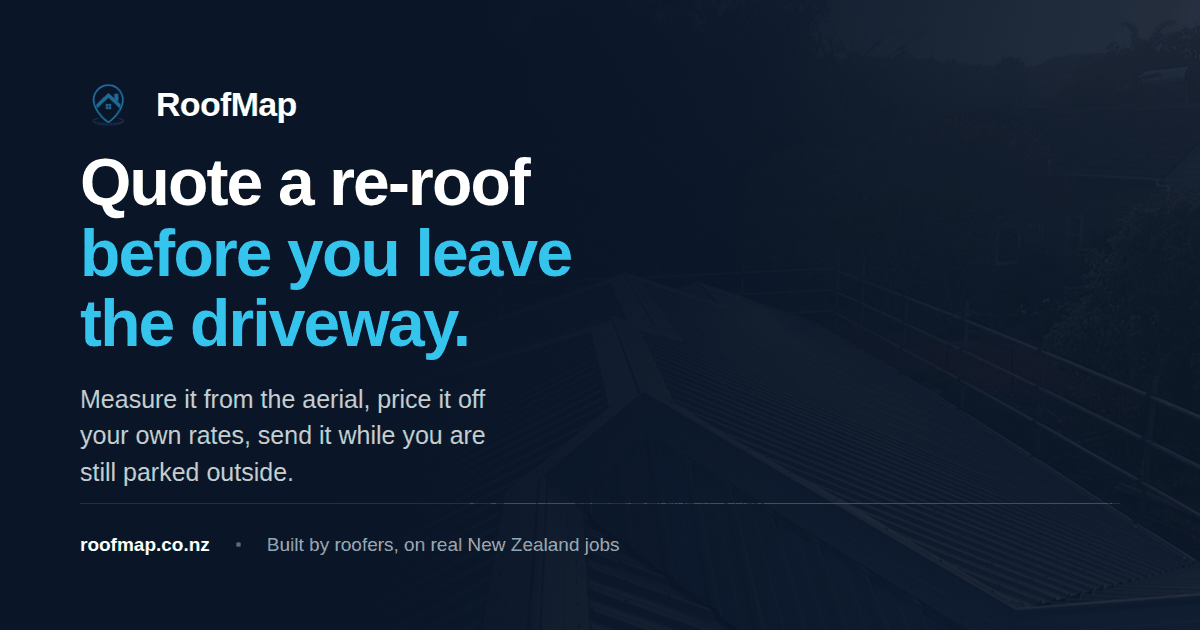
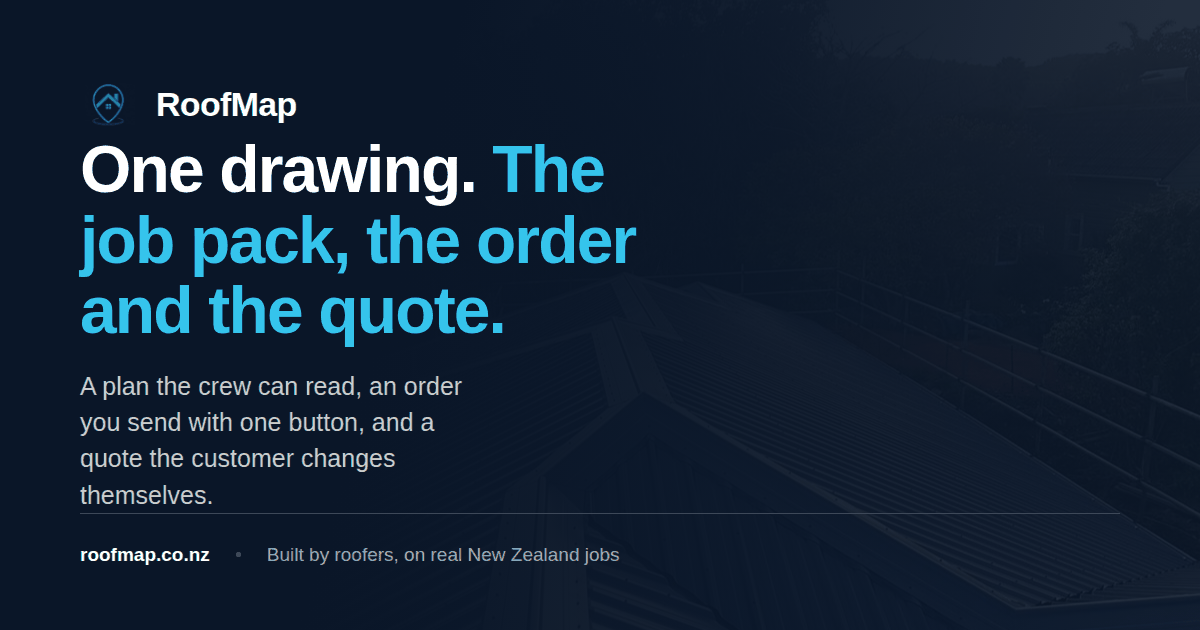
Sell the three things it actually fixes
The site sold speed — "quote a re-roof before you leave the driveway."
That is not why a roofing business buys this. Three things are:

  the crew gets a biro sketch they cannot read
  the order is counted by hand and emailed, and the mistakes cost money
  the customer rings up to change the gutter, the grade, the gauge

So the hero names all three and the four steps run in the order the work
actually happens: draw to scale, the job pack writes itself, the order
goes with one button, the customer changes their own options. "Price it"
comes out of the steps — pricing is a property of the quote, and "your
prices, your margin" already carries it in the grid below.

The tagline was also RENDERED INTO the social card, which is the picture
every link preview shows on Facebook, LinkedIn, Slack and a text message.
Changing the hero without rebuilding that leaves the old pitch on every
shared link, so tools/og-card.html and the PNG go with it.

og:image:alt had drifted into three different wordings across 22 pages —
two describing a tagline the card no longer carries, and one on the home
page describing a roof plan the card has never contained. There is one
image, so there is one true description of it. seo.mjs now enforces that;
it would have caught the home page disagreeing with the other sixteen.

landing.mjs gains the guard that matters more than the headline check:
each of the three pains has to be NAMED on the page. Copy drifts back
[…]

diff --git a/floodroofing/frontend/landing.html b/floodroofing/frontend/landing.html
@@ -4,7 +4,7 @@
 <meta charset="utf-8">
 <meta name="viewport" content="width=device-width, initial-scale=1">
 <title>RoofMap — roof estimating software for New Zealand roofers</title>
-<meta name="description" content="Measure a roof from an aerial photo, price it off your own rates, and send a quote the customer accepts online. Built by a working NZ roofing company.">
+<meta name="description" content="One scaled drawing becomes a job pack the crew can read, a merchant order sent with one button, and a live quote your customer changes themselves.">
 <link rel="canonical" href="https://roofmap.co.nz/">
 <meta name="robots" content="index,follow,max-image-preview:large,max-snippet:-1">
 <meta name="theme-color" content="#0a1628">
@@ -21,7 +21,7 @@
 <meta property="og:image" content="https://roofmap.co.nz/brand/og-card.png">
 <meta property="og:image:width" content="1200">
 <meta property="og:image:height" content="630">
-<meta property="og:image:alt" content="RoofMap — a measured roof plan over an aerial photo, with every ridge, hip and sheet run labelled">
+<meta property="og:image:alt" content="RoofMap — one drawing becomes the job pack, the merchant order and the customer quote">
 <meta name="twitter:card" content="summary_large_image">
 <meta name="twitter:title" content="RoofMap — roof estimating software for New Zealand roofers">
 <meta name="twitter:description" content="Measure a roof from an aerial photo, price it off your own rates, and send a quote the customer accepts online. Built by a working NZ roofing company.">
@@ -104,11 +104,12 @@
   <div class="hero-bg"><img src="brand/roof_aerial_multipitch.jpg" alt="A re-roof in progress on a New Zealand home"></div>
   <div class="wrap">
     <div class="hero-inner">
-      <div class="eyebrow">Roof measuring, quoting &amp; job packs</div>
-      <h1>Quote a re-roof <em>before you leave the driveway.</em></h1>
+      <div class="eyebrow">Roof measuring, job packs &amp; live quotes</div>
+      <h1>One drawing. <em>The job pack, the order and the quote.</em></h1>
       <p class="hero-sub">
-        Draw the roof over an aerial photo and RoofMap does the rest — real measurements, a material
-        order, cut lists for the crew, and a quote your customer can open, change and accept online.
+        Trace the roof to scale and RoofMap writes all three: a plan your crew can actually read, a
+        material order you send to your merchant with one button, and a live quote where the customer
+        changes their own steel and guttering instead of ringing you.
       </p>
       <div class="hero-cta">
         <a href="/early-access" class="btn btn-primary">Request early access</a>
@@ -117,9 +118,9 @@
       <p class="hero-note">Month to month, no contract · Cancel any time and stop paying · One subscription covers your whole office</p>
     </div>
     <div class="hero-strip">
-      <div><strong>No ladder</strong>Measure off the aerial, on the ground</div>
-      <div><strong>No spreadsheet</strong>Cut lists and orders come out on their own</div>
-      <div><strong>No chasing</strong>Customers accept the quote online</div>
+      <div><strong>No hand-drawn maps</strong>A clean scaled plan, not a biro sketch</div>
+      <div><strong>No order emails</strong>Quantities counted, sent with one button</div>
+      <div><strong>No back-and-forth</strong>They change the options themselves</div>
       <div><strong>No signal needed</strong>Works on the roof, syncs later</div>
     </div>
   </div>
@@ -129,25 +130,25 @@
   <div class="wrap">
     <div class="sec-head">
       <div class="eyebrow">How it works</div>
-      <h2>Four steps, one afternoon.</h2>
-      <p>The same job that used to mean a ladder, a tape, a spreadsheet and three phone calls.</p>
+      <h2>Draw it once. Everything follows.</h2>
+      <p>The same job that used to mean a tape, a spreadsheet, a biro sketch for the crew and three phone calls to the customer.</p>
     </div>
     <div class="steps">
       <div class="step">
-        <h3>Draw the roof</h3>
-        <p>Trace the outline over the aerial photo, set one known wall to scale, and every ridge, hip, valley, barge and gutter is measured for you.</p>
+        <h3>Draw the roof to scale</h3>
+        <p>Trace the outline over the aerial, set one known wall, and every ridge, hip, valley, barge and gutter is measured. The crew gets a plan they can read, not a sketch.</p>
       </div>
       <div class="step">
-        <h3>Price it</h3>
-        <p>Materials come off your own price book, labour off your own rates. Per roof, per building, with the margin in front of you as you work.</p>
+        <h3>The job pack writes itself</h3>
+        <p>Sheet runs laid out per plane, the flashing schedule, back-trays, fixings. An editable PDF you can change, not a spreadsheet you have to maintain.</p>
       </div>
       <div class="step">
-        <h3>Send the quote</h3>
-        <p>The customer gets a proper proposal on your own domain. They pick their steel, add a garage, and accept — you see it the moment they do.</p>
+        <h3>Send the order with one button</h3>
+        <p>The merchant order comes off the same counts that built the job pack. Nothing retyped, nothing counted twice, nothing left off the docket.</p>
       </div>
       <div class="step">
-        <h3>Order and build</h3>
-        <p>The material order emails to your supplier and the crew gets a job pack: sheet runs, flashing cut lists, back trays, fixings, all of it.</p>
+        <h3>They pick their own options</h3>
+        <p>A live quote where the customer changes steel grade, gauge and guttering and watches the price move. No ringing you up to ask what it would cost.</p>
       </div>
     </div>
   </div>
@@ -163,8 +164,8 @@
     <div class="feats">
       <div class="feat">
         <div class="ic">📐</div>
-        <h3>Measurements you can order from</h3>
-        <p>Gable, hip, Dutch gable, mono-pitch, stepped gutters, penetrations. Pitch-corrected, so what the plan says is what turns up on the truck.</p>
+        <h3>A roof plan the crew can read</h3>
+        <p>Gable, hip, Dutch gable, mono-pitch, stepped gutters, penetrations — drawn to scale and pitch-corrected, so what the plan says is what turns up on the truck.</p>
       </div>
       <div class="feat">
         <div class="ic">📋</div>
@@ -178,8 +179,8 @@
       </div>
       <div class="feat">
         <div class="ic">✍</div>
-        <h3>Quotes customers accept online</h3>
-        <p>A real proposal with the roof plan on it. They choose their steel grade and guttering, watch the total move, and accept from their phone.</p>
+        <h3>The customer changes it, not you</h3>
+        <p>A real proposal with the roof plan on it. They choose their steel grade, gauge and guttering, watch the total move, and accept from their phone.</p>
       </div>
       <div class="feat">
         <div class="ic">🔗</div>

diff --git a/floodroofing/frontend/about.html b/floodroofing/frontend/about.html
@@ -19,7 +19,7 @@
 <meta property="og:image" content="https://roofmap.co.nz/brand/og-card.png">
 <meta property="og:image:width" content="1200">
 <meta property="og:image:height" content="630">
-<meta property="og:image:alt" content="RoofMap — quote a re-roof before you leave the driveway">
+<meta property="og:image:alt" content="RoofMap — one drawing becomes the job pack, the merchant order and the customer quote">
 <meta name="twitter:card" content="summary_large_image">
 <meta name="twitter:title" content="About RoofMap — built by a New Zealand roofing company">
 <meta name="twitter:description" content="RoofMap was built inside Flood Roofing, a working roofing company in Northland, because quoting a re-roof took an afternoon and the order was never right.">

diff --git a/floodroofing/frontend/guides-roof-pitch-explained.html b/floodroofing/frontend/guides-roof-pitch-explained.html
@@ -19,7 +19,7 @@
 <meta property="og:image" content="https://roofmap.co.nz/brand/og-card.png">
 <meta property="og:image:width" content="1200">
 <meta property="og:image:height" content="630">
-<meta property="og:image:alt" content="RoofMap — quote a re-roof before you leave the driveway">
+<meta property="og:image:alt" content="RoofMap — one drawing becomes the job pack, the merchant order and the customer quote">
 <meta name="twitter:card" content="summary_large_image">
 <meta name="twitter:title" content="Roof pitch explained: degrees, ratios, lengths">
 <meta name="twitter:description" content="What roof pitch is in degrees and in rise-over-run, and every length on a roof that it changes — rafters, hips, valleys, barges and area, with the multipliers.">

diff --git a/floodroofing/frontend/guides-calculating-sheet-lengths.html b/floodroofing/frontend/guides-calculating-sheet-lengths.html
@@ -19,7 +19,7 @@
 <meta property="og:image" content="https://roofmap.co.nz/brand/og-card.png">
 <meta property="og:image:width" content="1200">
 <meta property="og:image:height" content="630">
-<meta property="og:image:alt" content="RoofMap — quote a re-roof before you leave the driveway">
+<meta property="og:image:alt" content="RoofMap — one drawing becomes the job pack, the merchant order and the customer quote">
 <meta name="twitter:card" content="summary_large_image">
 <meta name="twitter:title" content="Calculating roofing sheet lengths and counts">
 <meta name="twitter:description" content="How to work out long-run steel sheet lengths and quantities: run length at the pitch, overhang, cover width versus sheet width, and where the count goes wrong.">

diff --git a/floodroofing/frontend/terms.html b/floodroofing/frontend/terms.html
@@ -18,7 +18,7 @@
 <meta property="og:image" content="https://roofmap.co.nz/brand/og-card.png">
 <meta property="og:image:width" content="1200">
 <meta property="og:image:height" content="630">
-<meta property="og:image:alt" content="RoofMap — quote a re-roof before you leave the driveway">
+<meta property="og:image:alt" content="RoofMap — one drawing becomes the job pack, the merchant order and the customer quote">
 <meta name="twitter:card" content="summary_large_image">
 <meta name="twitter:title" content="Terms of Service — RoofMap roofing software">
 <meta name="twitter:description" content="The terms a New Zealand roofing business agrees to when it subscribes to RoofMap: what we provide, what it costs, who owns the data, and how either side ends ">

diff --git a/floodroofing/frontend/features-job-pack.html b/floodroofing/frontend/features-job-pack.html
@@ -19,7 +19,7 @@
 <meta property="og:image" content="https://roofmap.co.nz/brand/og-card.png">
 <meta property="og:image:width" content="1200">
 <meta property="og:image:height" content="630">
-<meta property="og:image:alt" content="RoofMap — quote a re-roof before you leave the driveway">
+<meta property="og:image:alt" content="RoofMap — one drawing becomes the job pack, the merchant order and the customer quote">
 <meta name="twitter:card" content="summary_large_image">
 <meta name="twitter:title" content="Roofing cut lists and material orders — RoofMap job pack">
 <meta name="twitter:description" content="Sheet cut lists, flashing schedules listed piece by piece, back-trays and boxed-chimney sets — counted off the roof you traced, and editable.">

diff --git a/floodroofing/frontend/guides-coastal-zones-and-warranties.html b/floodroofing/frontend/guides-coastal-zones-and-warranties.html
@@ -19,7 +19,7 @@
 <meta property="og:image" content="https://roofmap.co.nz/brand/og-card.png">
 <meta property="og:image:width" content="1200">
 <meta property="og:image:height" content="630">
-<meta property="og:image:alt" content="RoofMap — quote a re-roof before you leave the driveway">
+<meta property="og:image:alt" content="RoofMap — one drawing becomes the job pack, the merchant order and the customer quote">
 <meta name="twitter:card" content="summary_large_image">
 <meta name="twitter:title" content="Coastal zones and roofing warranties in NZ">
 <meta name="twitter:description" content="How distance to breaking surf sets the corrosion zone, what that does to a steel roof warranty, and the installation details that void one after it is written.">

diff --git a/floodroofing/frontend/guides-flashing-wastage.html b/floodroofing/frontend/guides-flashing-wastage.html
@@ -19,7 +19,7 @@
 <meta property="og:image" content="https://roofmap.co.nz/brand/og-card.png">
 <meta property="og:image:width" content="1200">
 <meta property="og:image:height" content="630">
-<meta property="og:image:alt" content="RoofMap — quote a re-roof before you leave the driveway">
+<meta property="og:image:alt" content="RoofMap — one drawing becomes the job pack, the merchant order and the customer quote">
 <meta name="twitter:card" content="summary_large_image">
 <meta name="twitter:title" content="Flashing wastage: per piece, not per cent">
 <meta name="twitter:description" content="Why a flat wastage percentage over-allows on a simple roof and under-allows on a cut-up one, and how to allow for flashing laps and trims per piece instead.">

diff --git a/floodroofing/frontend/guides-pipe-flashings-and-back-trays.html b/floodroofing/frontend/guides-pipe-flashings-and-back-trays.html
@@ -19,7 +19,7 @@
 <meta property="og:image" content="https://roofmap.co.nz/brand/og-card.png">
 <meta property="og:image:width" content="1200">
 <meta property="og:image:height" content="630">
-<meta property="og:image:alt" content="RoofMap — quote a re-roof before you leave the driveway">
+<meta property="og:image:alt" content="RoofMap — one drawing becomes the job pack, the merchant order and the customer quote">
 <meta name="twitter:card" content="summary_large_image">
 <meta name="twitter:title" content="Pipe flashings and back-trays explained">
 <meta name="twitter:description" content="Dektites, back-trays and boxed penetration sets: what each one does, how to count them, and why the back-tray is the most-forgotten item on a roofing order.">

diff --git a/floodroofing/frontend/guides-re-roof-scope-of-work.html b/floodroofing/frontend/guides-re-roof-scope-of-work.html
@@ -19,7 +19,7 @@
 <meta property="og:image" content="https://roofmap.co.nz/brand/og-card.png">
 <meta property="og:image:width" content="1200">
 <meta property="og:image:height" content="630">
-<meta property="og:image:alt" content="RoofMap — quote a re-roof before you leave the driveway">
+<meta property="og:image:alt" content="RoofMap — one drawing becomes the job pack, the merchant order and the customer quote">
 <meta name="twitter:card" content="summary_large_image">
 <meta name="twitter:title" content="Re-roof scope of work: what to include">
 <meta name="twitter:description" content="What belongs in a re-roof scope of work and what belongs in the exclusions, line by line — the half of a roofing quote that decides how the variations go.">

diff --git a/floodroofing/frontend/features-quotes.html b/floodroofing/frontend/features-quotes.html
@@ -19,7 +19,7 @@
 <meta property="og:image" content="https://roofmap.co.nz/brand/og-card.png">
 <meta property="og:image:width" content="1200">
 <meta property="og:image:height" content="630">
-<meta property="og:image:alt" content="RoofMap — quote a re-roof before you leave the driveway">
+<meta property="og:image:alt" content="RoofMap — one drawing becomes the job pack, the merchant order and the customer quote">
 <meta name="twitter:card" content="summary_large_image">
 <meta name="twitter:title" content="Roofing quotes customers accept online — RoofMap">
 <meta name="twitter:description" content="A six-page proposal built from the roof you measured: condition report, roof plan, priced selections, and acceptance the customer signs online.">

diff --git a/floodroofing/frontend/tools-roofing-sheet-calculator.html b/floodroofing/frontend/tools-roofing-sheet-calculator.html
@@ -19,7 +19,7 @@
 <meta property="og:image" content="https://roofmap.co.nz/brand/og-card.png">
 <meta property="og:image:width" content="1200">
 <meta property="og:image:height" content="630">
-<meta property="og:image:alt" content="RoofMap — quote a re-roof before you leave the driveway">
+<meta property="og:image:alt" content="RoofMap — one drawing becomes the job pack, the merchant order and the customer quote">
 <meta name="twitter:card" content="summary_large_image">
 <meta name="twitter:title" content="Roofing sheet calculator for long-run steel">
 <meta name="twitter:description" content="Work out long-run steel sheet lengths, counts, lineal metres and true roof area from the face width, plan run, pitch and cover width. Working shown.">
